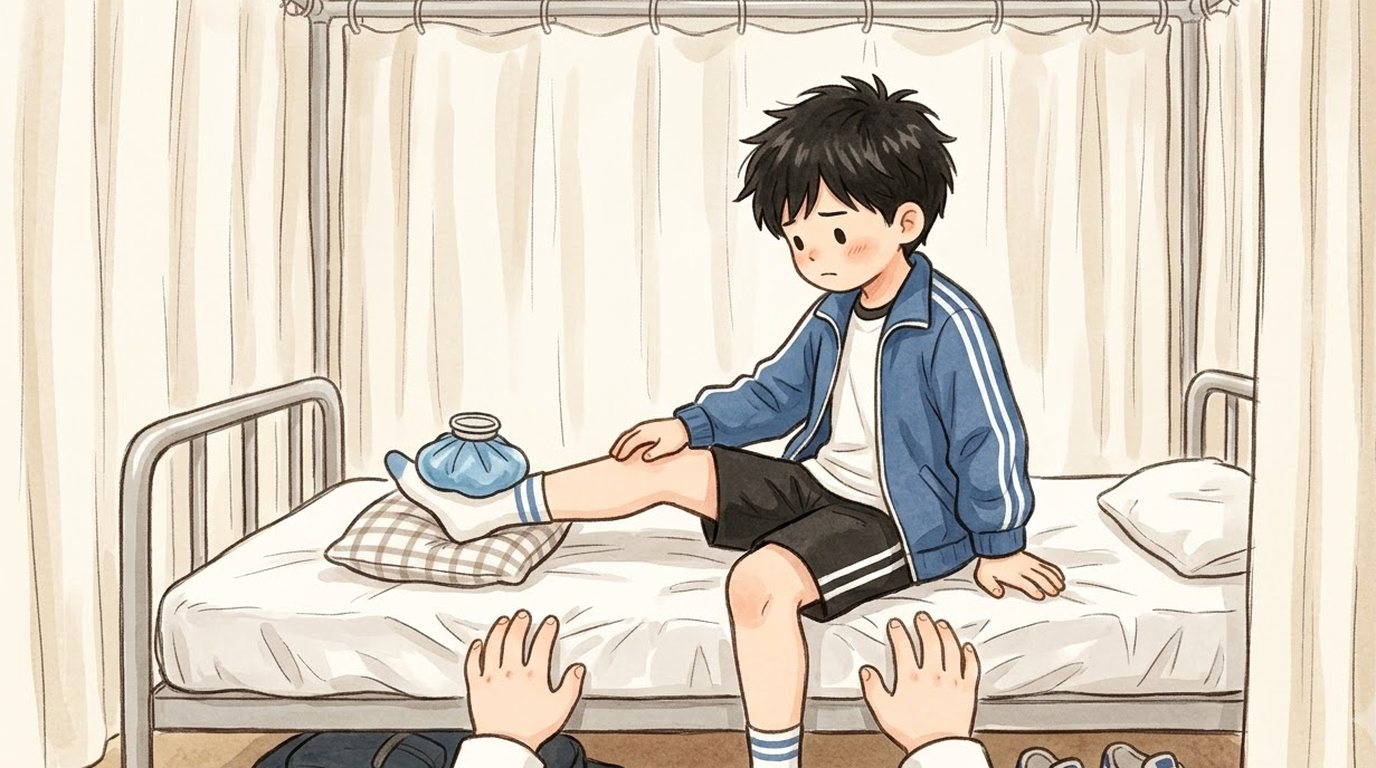
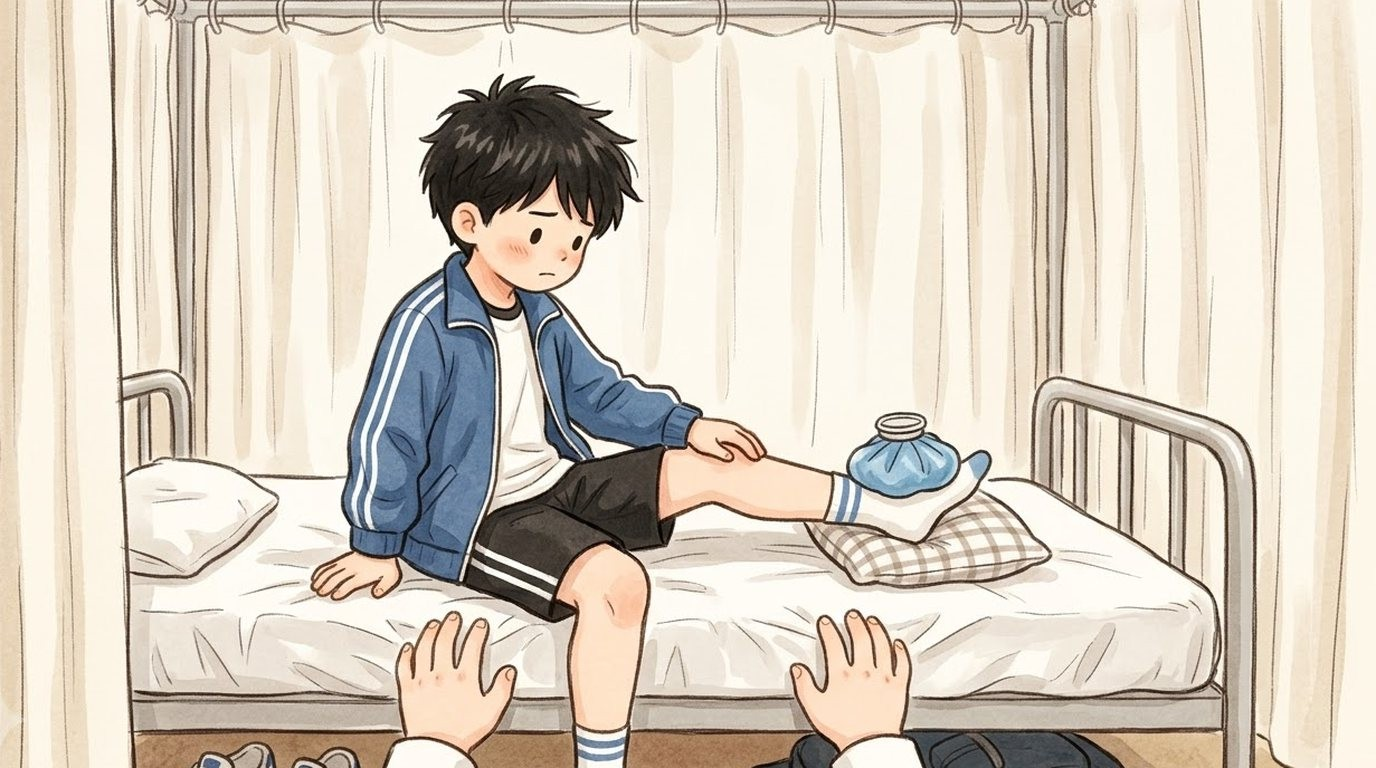
Junho 05g: the ice pack is on his left ankle (picture mirrored: only a bed and curtains, nothing that reads wrong)

diff --git a/index.html b/index.html
@@ -119,14 +119,14 @@ body,button{word-break:keep-all;overflow-wrap:break-word}
 <div id="fader"></div>
 <script>
 // same address, newest version: if the page this phone has kept is older than the one online, fetch the new one and reopen
-const BUILD='1107131053';
+const BUILD='1107131304';
 try{fetch(location.pathname,{cache:'no-store'}).then(r=>r.text()).then(t=>{const m=t.match(/const BUILD='(\d+)'/);if(m&&m[1]!==BUILD&&sessionStorage.getItem('upd')!==m[1]){sessionStorage.setItem('upd',m[1]);fetch(location.pathname,{cache:'reload'}).then(()=>location.reload())}}).catch(()=>{})}catch(e){}
 </script>
-<script src="i18n.js?v=1107131053"></script>
-<script src="i18n_prologue_v2.js?v=1107131053"></script>
-<script src="day2/i18n_engine.js?v=1107131053"></script>
-<script src="day2/data.js?v=1107131053"></script>
-<script src="day3/data.js?v=1107131053"></script>
+<script src="i18n.js?v=1107131304"></script>
+<script src="i18n_prologue_v2.js?v=1107131304"></script>
+<script src="day2/i18n_engine.js?v=1107131304"></script>
+<script src="day2/data.js?v=1107131304"></script>
+<script src="day3/data.js?v=1107131304"></script>
 <script>
 // ---------- data ----------
 const MW=1672,MH=941,KID=180;
@@ -569,34 +569,34 @@ function pickHero(){const m=document.getElementById('modal'),c=document.getEleme
  c.innerHTML=`<h2>${tr('전학생 반장되기')}</h2><p>${tr('한국말이 아직 서툰 전학생,<br>반장 선거에 나가다.')}</p><p style="margin-top:14px">${tr('누구로 할까요?')}</p>${(()=>{const s=loadSave();return s&&s.day>=2&&s.mode===UI+'-'+LANG?`<p><button class="big" id="cont">${tr('{n}일차부터 이어 하기').replace('{n}',s.day)}</button></p>`:''})()}<div class="pick heroes"><button data-h="hero_f"><img src="faces/hero_f_smile.jpg" alt="여자 주인공">${heroName(1)}</button><button data-h="hero_m"><img src="faces/hero_m_smile.jpg" alt="남자 주인공">${heroName(0)}</button></div>`;
  m.classList.add('on');{const cb=document.getElementById('cont');if(cb)cb.onclick=()=>{const s=loadSave();HERO=s.hero;Object.assign(HEART,s.heart||{});(s.found||[]).forEach(k=>FOUND.add(k));HEART_D1={...HEART};chime();(typeof contGame==='function'?contGame(s):startDay(Math.min(s.day,Object.keys(window.D3||{}).length?3:2)))}}c.querySelectorAll('.pick button').forEach(b=>b.onclick=()=>{HERO=b.dataset.h;m.classList.remove('on');chime();bgm('day');load('home_am');say([['nar','','이사 온 다음 날 아침. 아직 풀지 못한 상자들이 쌓여 있다.'],['think','sad','(오늘부터 새 학교야. 여기 말도 아직 서툰데…….)'],['think','smile','({m}한테 인사하고 학교 가야지.)']],morning)})}
 </script>
-<script src="day2/engine.js?v=1107131053"></script>
-<script src="day2/ep_minho.js?v=1107131053"></script>
-<script src="day2/meet.js?v=1107131053"></script>
-<script src="day2/ep_sua.js?v=1107131053"></script>
-<script src="day2/ep_hangyeol.js?v=1107131053"></script>
-<script src="day2/ep_siwoo.js?v=1107131053"></script>
-<script src="day2/ep_haram.js?v=1107131053"></script>
-<script src="day2/ep_jiho.js?v=1107131053"></script>
-<script src="day2/ep_hyeeun.js?v=1107131053"></script>
-<script src="day2/ep_haneul.js?v=1107131053"></script>
-<script src="day2/ep_junho.js?v=1107131053"></script>
-<script src="day2/ep_yuna.js?v=1107131053"></script>
-<script src="day2/ep_yena.js?v=1107131053"></script>
-<script src="day2/ep_haeun.js?v=1107131053"></script>
-<script src="day2/ep_youngmin.js?v=1107131053"></script>
-<script src="day2/ep_seah.js?v=1107131053"></script>
-<script src="day2/ep_jihoon.js?v=1107131053"></script>
-<script src="words_ja_ru.js?v=1107131053"></script>
-<script src="day2/mybag.js?v=1107131053"></script>
-<script src="day2/wordpics.js?v=1107131053"></script>
-<script src="day2/spots.js?v=1107131053"></script>
-<script src="day2/textfit.js?v=1107131053"></script>
-<script src="day2/tester.js?v=1107131053"></script>
-<script src="day2/ux.js?v=1107131053"></script>
-<script src="day2/tapword.js?v=1107131053"></script>
-<script src="day2/review.js?v=1107131053"></script>
-<script src="day2/ep_ending.js?v=1107131053"></script>
-<script src="day2/ending.js?v=1107131053"></script>
+<script src="day2/engine.js?v=1107131304"></script>
+<script src="day2/ep_minho.js?v=1107131304"></script>
+<script src="day2/meet.js?v=1107131304"></script>
+<script src="day2/ep_sua.js?v=1107131304"></script>
+<script src="day2/ep_hangyeol.js?v=1107131304"></script>
+<script src="day2/ep_siwoo.js?v=1107131304"></script>
+<script src="day2/ep_haram.js?v=1107131304"></script>
+<script src="day2/ep_jiho.js?v=1107131304"></script>
+<script src="day2/ep_hyeeun.js?v=1107131304"></script>
+<script src="day2/ep_haneul.js?v=1107131304"></script>
+<script src="day2/ep_junho.js?v=1107131304"></script>
+<script src="day2/ep_yuna.js?v=1107131304"></script>
+<script src="day2/ep_yena.js?v=1107131304"></script>
+<script src="day2/ep_haeun.js?v=1107131304"></script>
+<script src="day2/ep_youngmin.js?v=1107131304"></script>
+<script src="day2/ep_seah.js?v=1107131304"></script>
+<script src="day2/ep_jihoon.js?v=1107131304"></script>
+<script src="words_ja_ru.js?v=1107131304"></script>
+<script src="day2/mybag.js?v=1107131304"></script>
+<script src="day2/wordpics.js?v=1107131304"></script>
+<script src="day2/spots.js?v=1107131304"></script>
+<script src="day2/textfit.js?v=1107131304"></script>
+<script src="day2/tester.js?v=1107131304"></script>
+<script src="day2/ux.js?v=1107131304"></script>
+<script src="day2/tapword.js?v=1107131304"></script>
+<script src="day2/review.js?v=1107131304"></script>
+<script src="day2/ep_ending.js?v=1107131304"></script>
+<script src="day2/ending.js?v=1107131304"></script>
 <script>
 // the goal shows big for a few seconds, then folds into a small pill (tap it to open it again)
 {const g=document.getElementById('goal');let t=null;const big=()=>{g.classList.remove('mini');clearTimeout(t);t=setTimeout(()=>g.classList.add('mini'),4000)};
